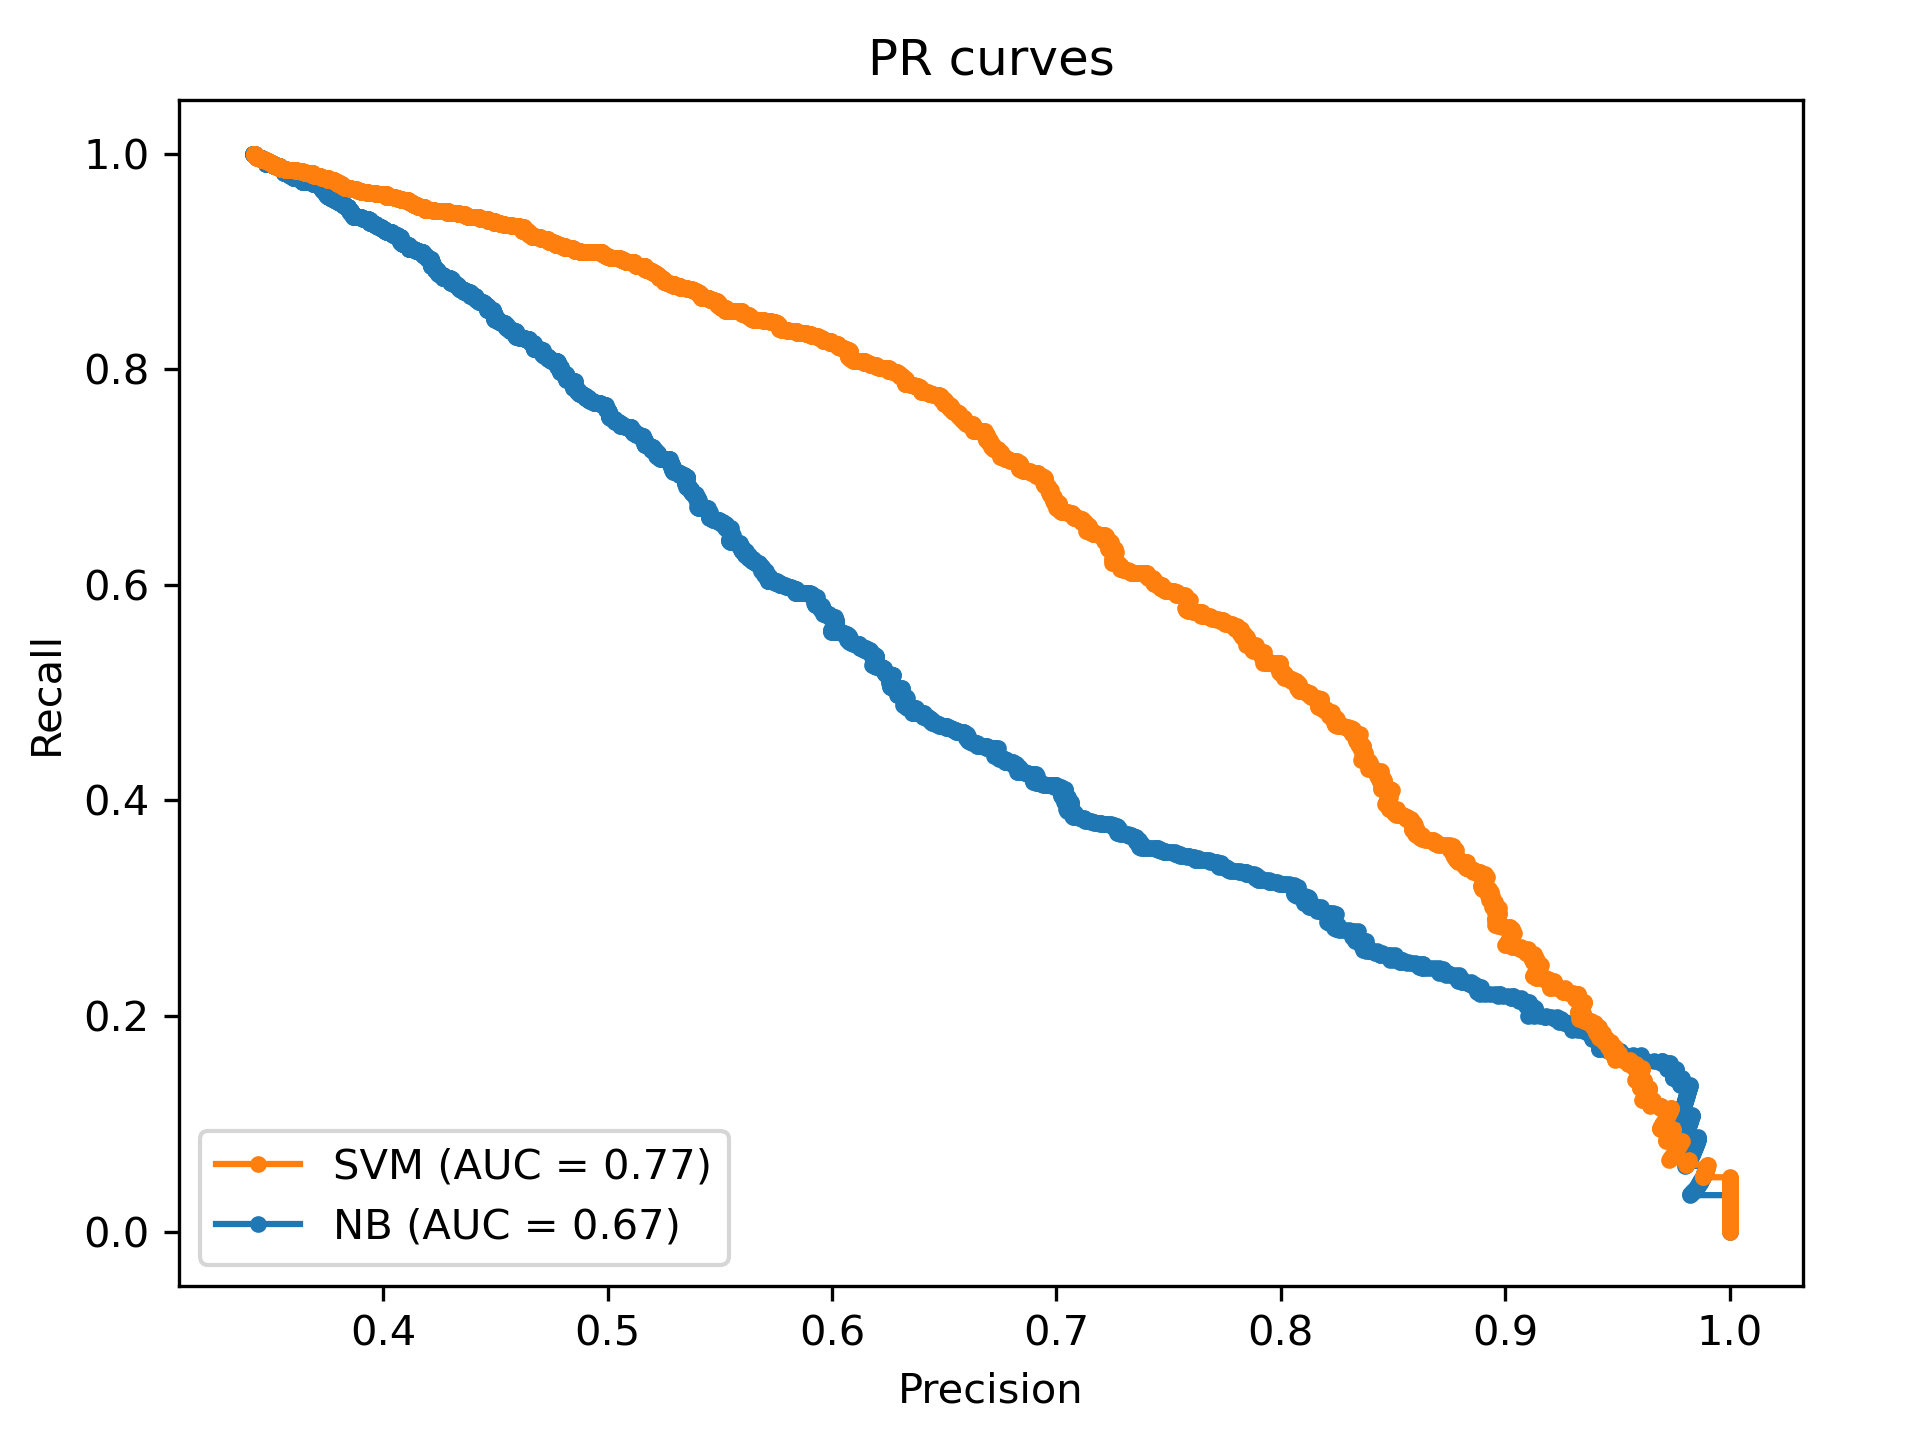
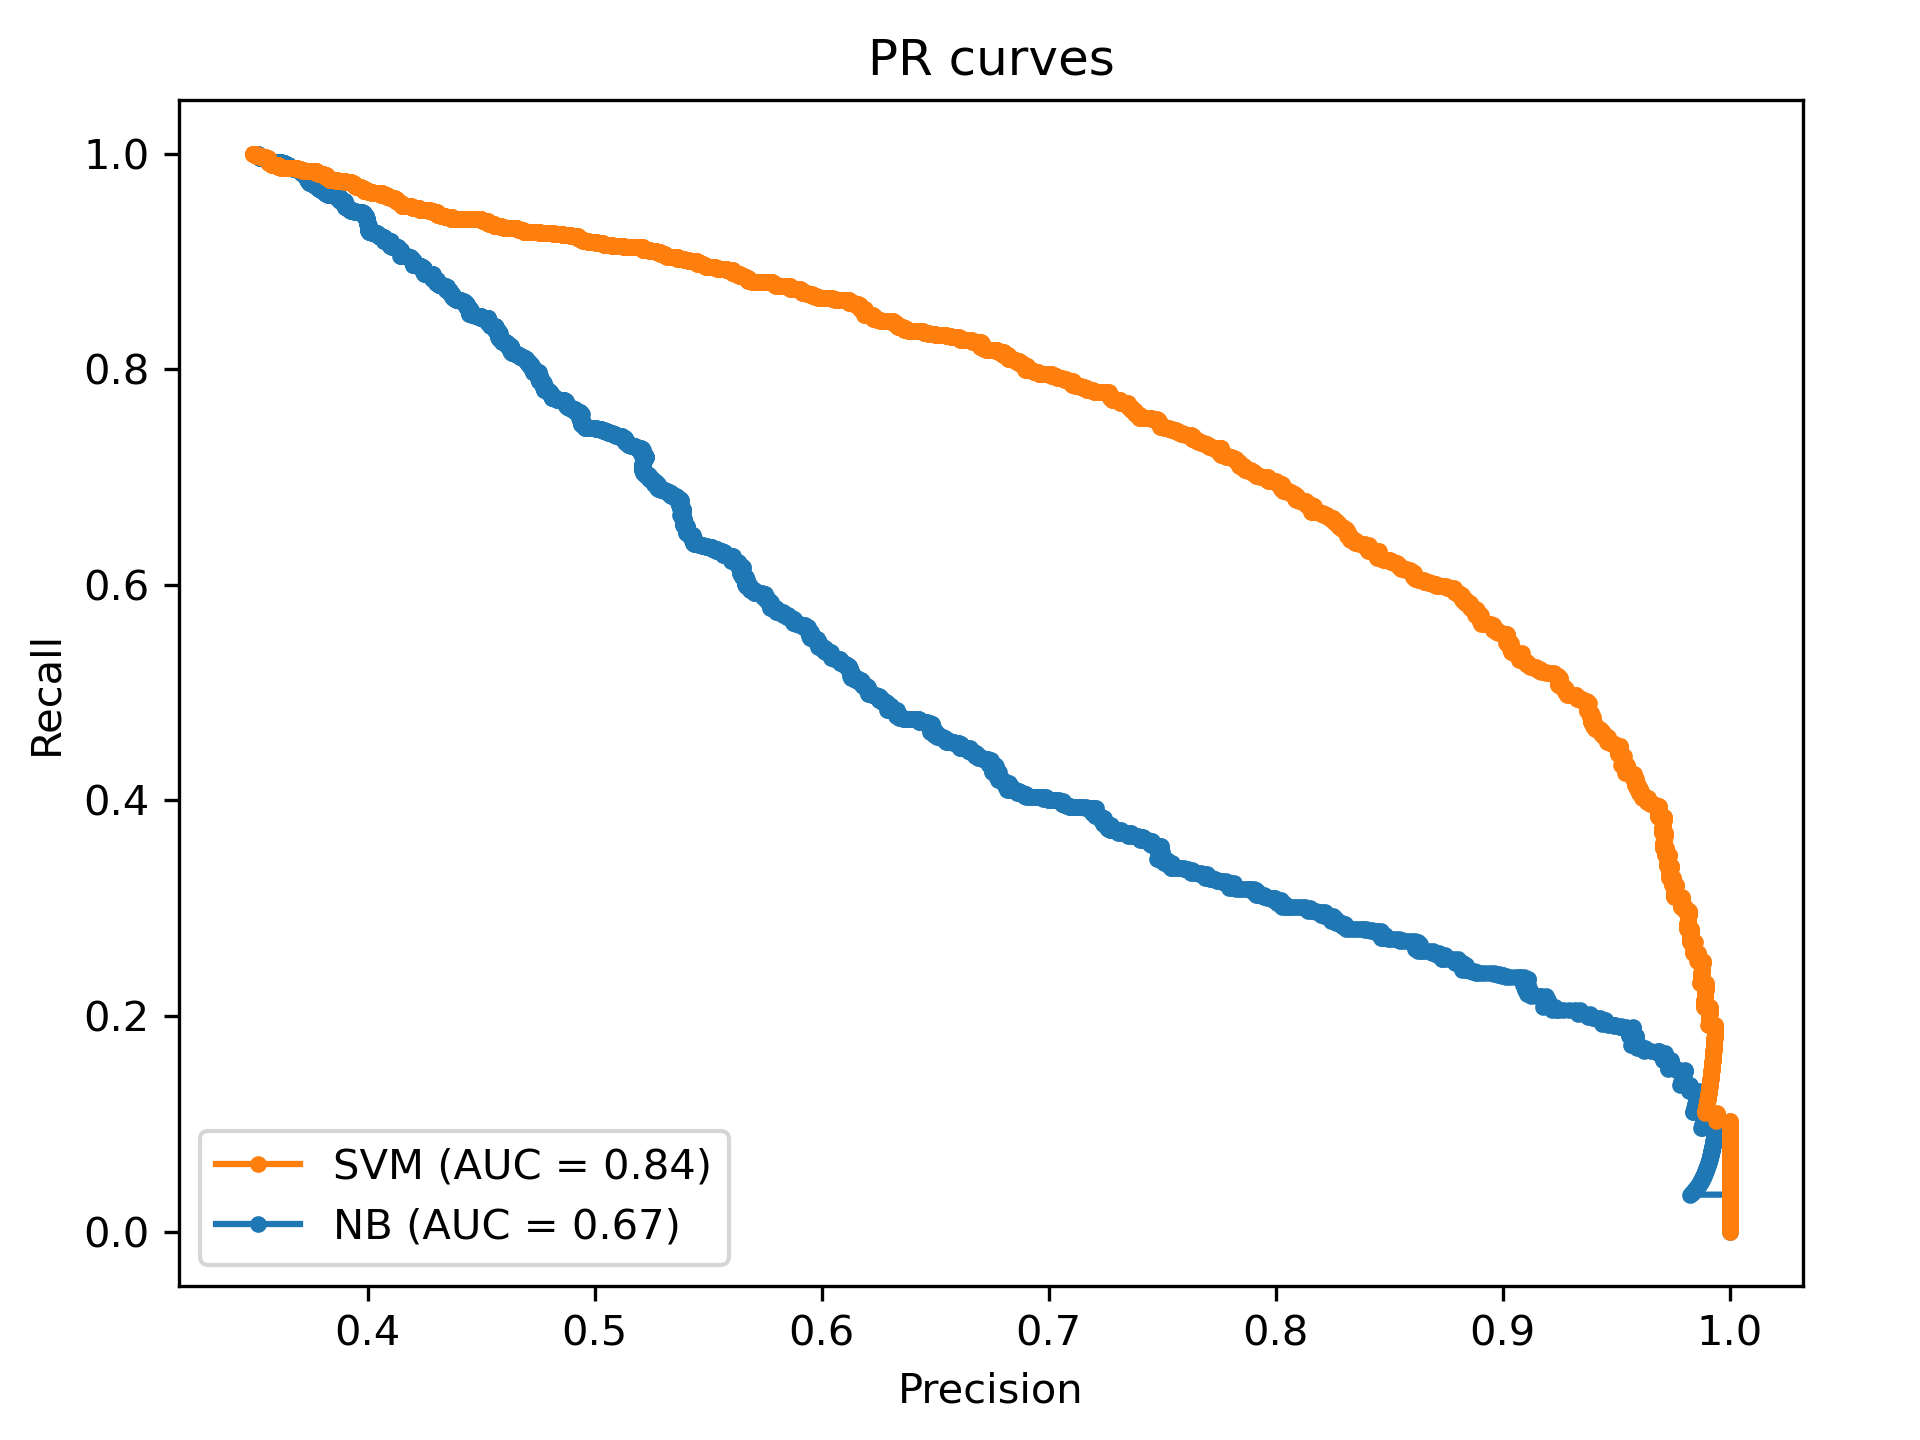
improve SVM parameters

diff --git a/main.py b/main.py
@@ -87,7 +87,7 @@ def run_SVM(X,y):
     # gamma = -1, hadron = 1
     # https://scikit-learn.org/stable/modules/generated/sklearn.svm.SVC.html#sklearn.svm.SVC
     # https://scikit-learn.org/stable/modules/svm.html#svm-kernels
-    clf = svm.SVC(C=1, kernel='rbf', gamma='scale')
+    clf = svm.SVC(C=60, random_state=0, kernel='rbf', gamma='scale')
     clf.fit(X, y)
     return clf
 
